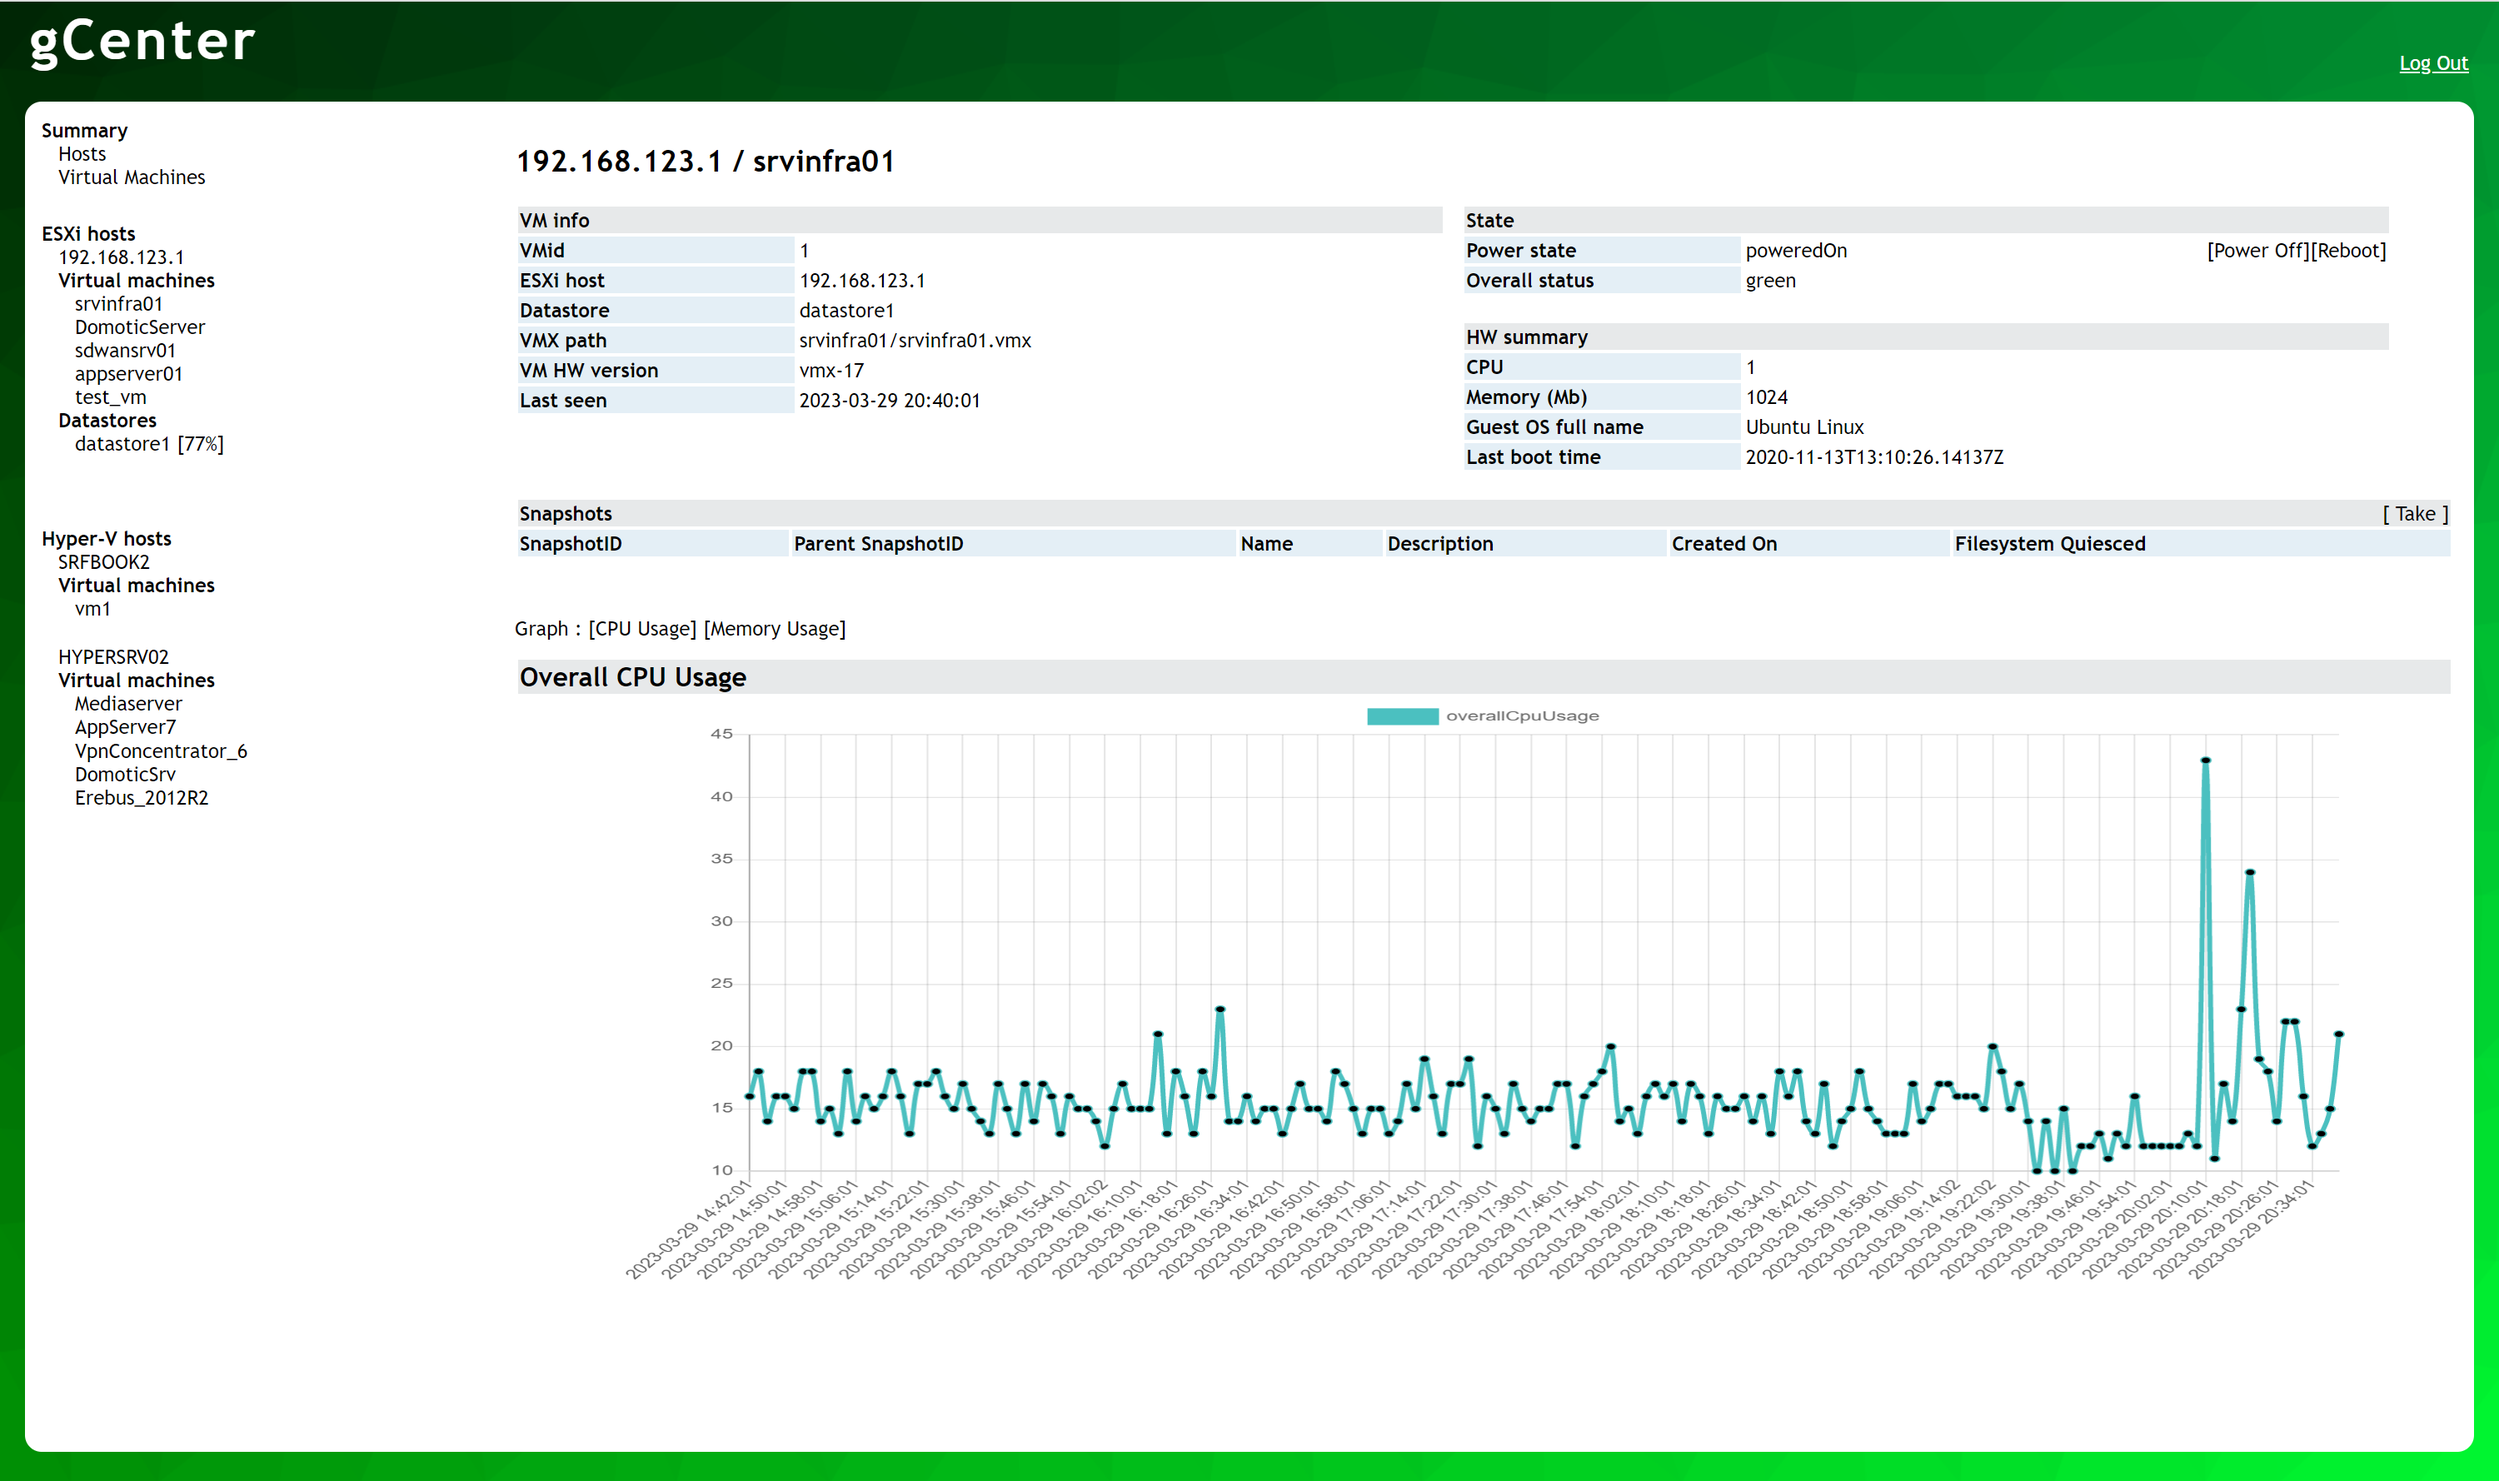
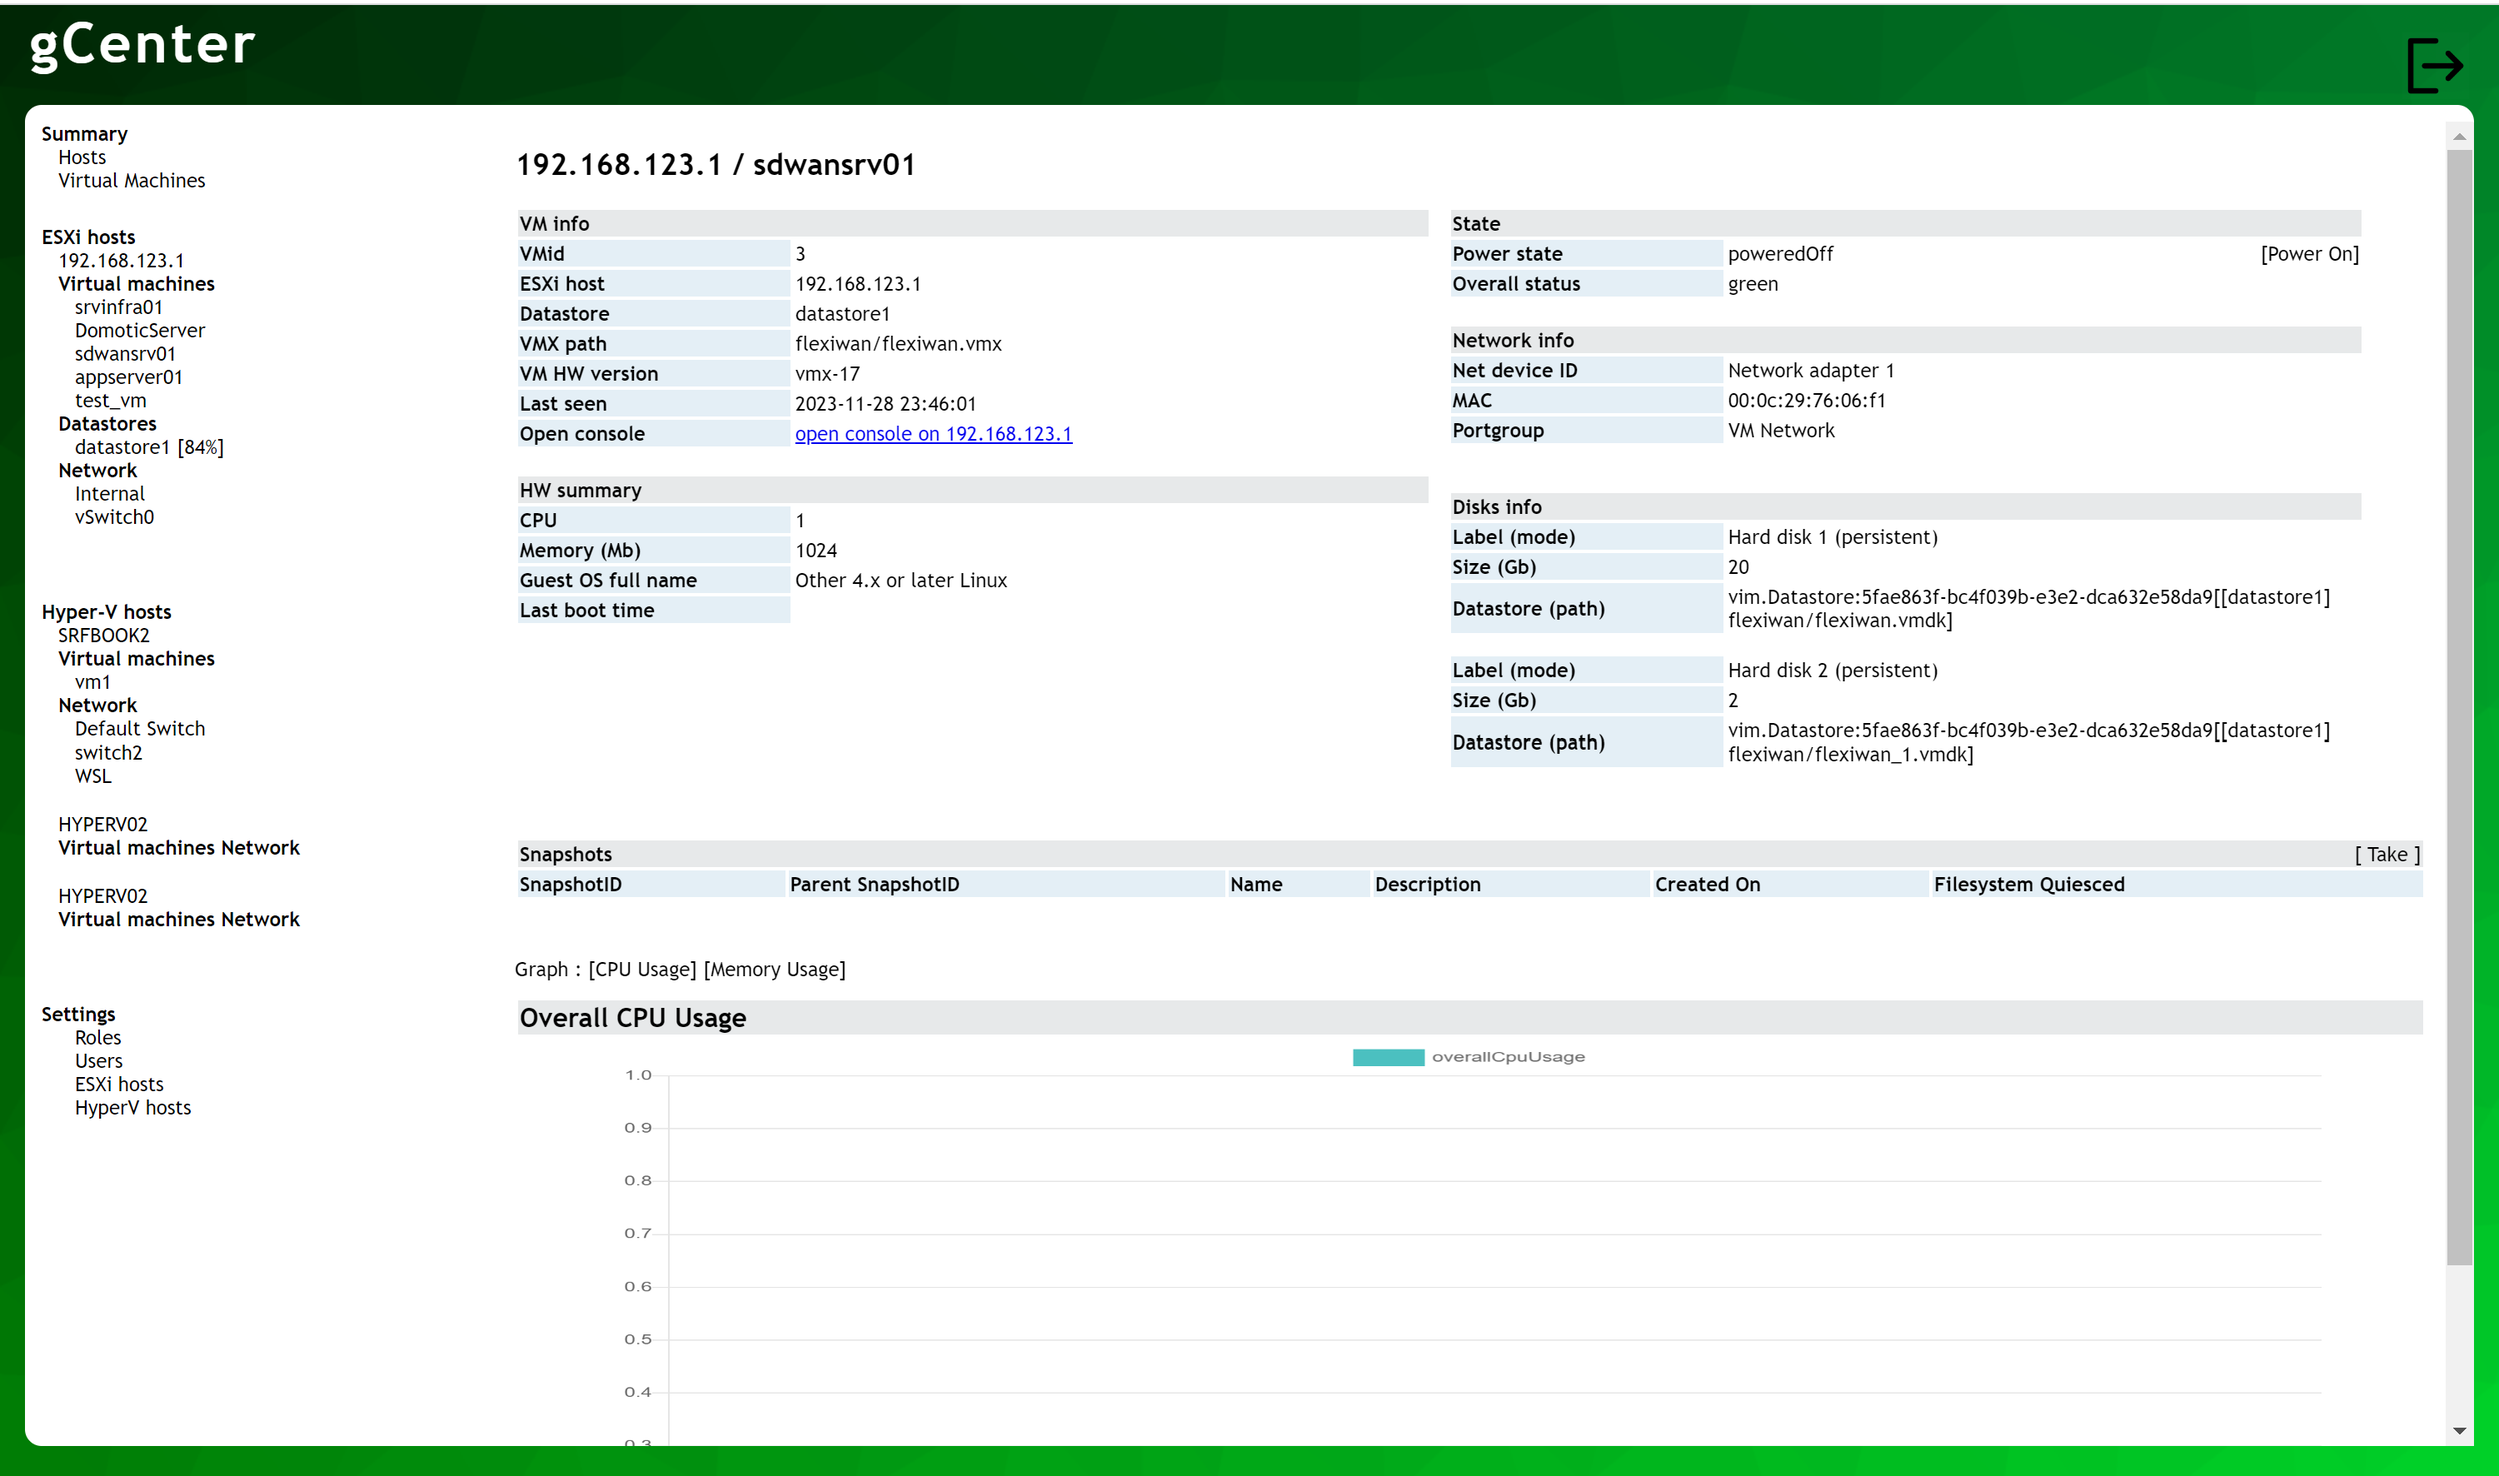
Fix jsonificator for typed-nodes and added esxi disk gathering and display

diff --git a/gatherer/gather.php b/gatherer/gather.php
@@ -281,7 +281,7 @@ function getNetwork( $db_con, $date, $time, $host, $user, $passwd, $private_key)
       $sql="insert into vswitch_informations (timestamp,date, time, hostname, vswitch_name, portgroup_name, active_clients, vlan_id ) values ('$date $time', '$date','$time', '$host', '$vswitch_name', '$portgroup_name','$active_client','$vlan_id'); ";
 
        if ($db_con->query($sql) === TRUE) {
-         echo "INFO : vswitch/portgroup '$vswitch_name'/'$porgroup_name' on '$host' inserted.\n";
+         echo "INFO : vswitch/portgroup '$vswitch_name'/'$portgroup_name' on '$host' inserted.\n";
        } else {
          echo "ERROR :  " . $sql . "\n" . $db_con->error."\n";
        }
@@ -394,7 +394,7 @@ function getDatastoreContent(  $db_con, $date, $time, $host, $user, $passwd, $pr
 
     $sql_ds_content="insert into ds_content (timestamp,date,time,hostname, datastore, content_ls) values ('$ds_ts', '$ds_date','$ds_time','$host','$ds_name', '".mysqli_real_escape_string($db_con, implode("\n",$output))."'  ) ; ";
     if ($db_con->query($sql_ds_content) === TRUE) {
-      echo "INFO : datastore content for datastore '$name' on '$host' inserted.\n";
+      echo "INFO : datastore content for datastore '$ds_name' on '$host' inserted.\n";
     } else {
       echo "ERROR : insert datastore :  " . $sql_ds_content . "\n" . $db_con->error."\n";
     }
@@ -407,7 +407,7 @@ function getDatastoreContent(  $db_con, $date, $time, $host, $user, $passwd, $pr
 
 function getVmDevices(  $db_con, $date, $time, $host, $user, $passwd, $private_key, $vm_id) {
   $debug=true;
-
+  echo "INFO : getting VM Devices for vm=$vm_id on host=$host\n";
   $output=null;
   $retval=null;
   $command="vim-cmd vmsvc/device.getdevices $vm_id | sed 's/= (.*)/:/g' ";
@@ -426,29 +426,60 @@ function getVmDevices(  $db_con, $date, $time, $host, $user, $passwd, $private_k
   if ( json_last_error()===JSON_ERROR_NONE ) {
 
       if ($debug){
-        echo "DEBUG : found config\n";
-        echo "  ".$vmconfig_output."\n";
+        echo "DEBUG : jsonified config\n";
+	echo "  ".$vmconfig_output."\n";
       }
 
       foreach($vmconfig_json->device as $device) {
-        echo "INFO : device ".$device->deviceInfo->label."\n";
+        
+        echo "INFO : found device ".$device->deviceInfo->label."\n";
 	// is network interface
 	if (isset($device->macAddress)){
 	  $backing_portgroup=$device->backing->deviceName;
+	  $netdevice_id=$device->deviceInfo->label;
           $mac_address=$device->macAddress;
 	  echo "INFO : device type = network interface '".$mac_address."' connected to '".$backing_portgroup."' \n";
 
-          $sql_vm_net="insert into vm_network_devices (timestamp,date,time,hostname,vmid,netdevice_id ,macaddress , backing_portgroup) values ('$date $time','$date','$time', '$host' ,'$vm_id', '','$mac_address','$backing_portgroup'   ) ; ";
+          $sql_vm_net="insert into vm_network_devices (timestamp,date,time,hostname,vmid,netdevice_id ,macaddress , backing_portgroup) values ('$date $time','$date','$time', '$host' ,'$vm_id', '$netdevice_id','$mac_address','$backing_portgroup'   ) ; ";
           if ($db_con->query($sql_vm_net) === TRUE) {
             echo "INFO : vm net device for vm  '$vm_id' on '$host' inserted.\n";
           } else {
             echo "ERROR insert vm_network_devices :  " . $sql_vm_net . "\n" . $db_con->error."\n";
           }
 	  
-	}	
+	}else if ( $device->gcenter_type === "vim.vm.device.VirtualDisk" )
+	{
+	  // is a disk
+	  $label=$device->deviceInfo->label;
+	  $backing_ds=$device->backing->datastore;
+	  $backing_file=$device->backing->fileName;
+	  $backing_uuid=$device->backing->uuid;
+	  $backing_mode=$device->backing->diskMode;
+	  $capacity_byte=$device->capacityInBytes;
+	  
+	  echo "INFO : found disk\n";
+	  echo "       label = $label\n";
+	  echo "       ds = $backing_ds\n";
+	  echo "       file = $backing_file\n";
+	  echo "       uuid = $backing_uuid\n";
+	  echo "       mode = $backing_mode\n";
+	  echo "       byte = $capacity_byte\n";
+
+          $sql_vm_disk="insert into vm_disk_devices ( timestamp, date, time, hostname, vmid, label, datastore_id, filepath, uuid, mode, size_bytes) values ('$date $time','$date','$time', '$host' ,'$vm_id', '$label','$backing_ds','$backing_file','$backing_uuid','$backing_mode','$capacity_byte'   ) ; ";
+          if ($db_con->query($sql_vm_disk) === TRUE) {
+            echo "INFO : vm disk '$label' device for vm  '$vm_id' on '$host' inserted.\n";
+          } else {
+            echo "ERROR insert vm_disk_devices :  " . $sql_vm_disk . "\n" . $db_con->error."\n";
+	  }
+
+	}
 
       }
       
+  }else{
+    echo "ERROR :unable to parse JSONified command output (below)";
+    var_dump($output);
+    echo "\n";
   }
 }
 

diff --git a/website/manage_get_esxi_vm_informations.php b/website/manage_get_esxi_vm_informations.php
@@ -67,6 +67,13 @@ if (  isset($_GET["hostname"]) && isset($_GET["vmid"]) && "get_vm_info"==$_GET["
        <tr><th>Open console</th><td><a href="https://<?php print $host ?>/ui/#/console/<?php print $vmid ?>" target="_blank">open console on <?php print $host ?></a></td></tr>
       </table>
       <br/>
+      <table class="tbl_vm_info">
+        <tr><td class="tbl_info_header" colspan="2">HW summary</td></tr>
+        <tr><th>CPU</th><td><?php print $cfg_numCpu ?></td></tr>
+        <tr><th>Memory (Mb)</th><td><?php print $cfg_memoryMb ?></td></tr>
+        <tr><th>Guest OS full name</th><td><?php print $guest_guestfullname ?></td></tr>
+        <tr><th>Last boot time</th><td><?php print $runtime_lastboottime ?></td></tr>
+      </table>
     </span>
 
     <span class="spn_50">
@@ -94,37 +101,52 @@ if (  isset($_GET["hostname"]) && isset($_GET["vmid"]) && "get_vm_info"==$_GET["
       </table>
       <br/>
       <table class="tbl_vm_info">
-        <tr><td class="tbl_info_header" colspan="2">HW summary</td></tr>
-        <tr><th>CPU</th><td><?php print $cfg_numCpu ?></td></tr>
-        <tr><th>Memory (Mb)</th><td><?php print $cfg_memoryMb ?></td></tr>
-        <tr><th>Guest OS full name</th><td><?php print $guest_guestfullname ?></td></tr>
-        <tr><th>Last boot time</th><td><?php print $runtime_lastboottime ?></td></tr>
-      </table>
-    </span>
+       <tr><td class="tbl_info_header" colspan="2">Network info</td></tr>
 
-    <span class="spn_50">
-      <table class="tbl_vm_info">
-       <tr><td class="tbl_info_header" colspan="2">Network interfaces</td></tr>
-       <tr><th>macAddress</th><th>Portgroup</th></tr>
 <?php
       $sql_net_devices="select * from vm_network_devices where timestamp='".mysqli_real_escape_string($con,$timestamp)."' and vmid='".mysqli_real_escape_string($con,$vmid)."' and hostname='".mysqli_real_escape_string($con,$host)."' order by backing_portgroup; ";
 
       $result_net=mysqli_query($con,$sql_net_devices);
       while ($row = $result_net->fetch_assoc()) {
         $macaddress=$row["macaddress"];
+        $netdevice_id=$row["netdevice_id"];
         $backing_portgroup=$row["backing_portgroup"];
 
+
 ?>
-       <tr>
-         <td><?php print $macaddress; ?></td>
-         <td><?php print $backing_portgroup; ?></td>
-       </tr>
+         <tr><th>Net device ID</th><td><?php print $netdevice_id ?></td></tr>
+         <tr><th>MAC</th><td><?php print $macaddress ?></td></tr>
+         <tr><th>Portgroup</th><td><?php print $backing_portgroup; ?></td>
+         <tr height="10px"></tr>
 <?php } ?>
 
       </table>
-      <br/>
-    </span>
+      <br />
 
+      <table class="tbl_vm_info">
+       <tr><td class="tbl_info_header" colspan="2">Disks info</td></tr>
+
+<?php
+      $sql_disk_devices="select * from vm_disk_devices where timestamp='".mysqli_real_escape_string($con,$timestamp)."' and vmid='".mysqli_real_escape_string($con,$vmid)."' and hostname='".mysqli_real_escape_string($con,$host)."' order by label; ";
+
+      $result_disks=mysqli_query($con,$sql_disk_devices);
+      while ($row = $result_disks->fetch_assoc()) {
+        $label=$row["label"]." (".$row["mode"].")";
+        $size_byte=$row["size_bytes"];
+        $backing_datastore=$row["datastore_id"];
+        $filepath=$row["filepath"];
+
+
+?>
+         <tr><th>Label (mode)</th><td><?php print $label ?></td></tr>
+         <tr><th>Size (Gb)</th><td><?php print $size_byte/1024/1024/1024 ?></td></tr>
+         <tr><th>Datastore (path)</th><td><?php print $backing_datastore."[".$filepath."]"; ?></td>
+         <tr height="10px"></tr>
+<?php } ?>
+
+      </table>
+      <br />
+    </span>
 
 
     <br/>

diff --git a/common/jsonify.php b/common/jsonify.php
@@ -1,12 +1,48 @@
 <?php
 
 function jsonify($a_output){
-#$a_output = explode("\n",$cmd_output);
+
+$custom_tag_type="gcenter_type";	
+# first scan all the lines to split lines as
+#      (my.type.of.node) {
+# adding a special key_value 'gcenter_type' : 'my.type.of.node'
+$b_output=array();
+foreach($a_output as $line){
+
+  if (trim(strlen($line))>0){
+    if (preg_match('@(\\(.*?\\)) *({)@',$line) ){
+     // match the case we need to split the lines adding the custom tag
+     $new_line=preg_replace('@(\\(.*?\\)) *({)@', '${2} '.$custom_tag_type.' = "${1}",', $line);
+#     echo "PRELINE : $line\r\n";
+#     echo "NEWLINE : $new_line\r\n";
+
+     $gcenter_type_line=substr($new_line,strpos($new_line,$custom_tag_type));
+     $gcenter_type_line=str_replace("(","",$gcenter_type_line);
+     $gcenter_type_line=str_replace(")","",$gcenter_type_line);
+
+     $gcenter_type_line_pre=substr($new_line,0, strpos($new_line,$custom_tag_type));
+     echo "INFO : pre_line = $gcenter_type_line_pre\r\n";
+     echo "INFO : line = $gcenter_type_line\r\n";
+
+     $b_output[count($b_output)] = $gcenter_type_line_pre;
+     $b_output[count($b_output)] = $gcenter_type_line;
+
+    }else{
+      $b_output[count($b_output)] = $line;
+    }
+  }
+}
+
+
 
 $j_output="";
-foreach ($a_output as $line) {
+$line_num=0;
+foreach ($b_output as $line) {
+  $line_num++;
+
   if (trim(strlen($line))>0){
      $n_line=preg_replace("@\(.*?\)@", "", $line);
+
      $n2_line=preg_replace("/=/", ":", $n_line);
      $n3_line=preg_replace("/ +/", " ", $n2_line);
      $n4_line=preg_replace("/^ +/", "", $n3_line);

diff --git a/README.md b/README.md
@@ -120,6 +120,7 @@ Vmware ESXI
   - list datastore content (filesystem tree)
   - list vswitch/portgroup informations
   - list network interfaces and porgroup assignation
+  - list vm disks
 
 Micrososft Hyper-V 
   - hyperv-wmi-http-adapter-service windows service to interface WMI
@@ -133,6 +134,7 @@ Micrososft Hyper-V
   - check vm cpu and memory statistics/graphs
 
 # Main steps
+2023-11-28 Feature : added esxi vm disk gatering and listing on web interface<br/>
 2023-10-23 Feature : added hyper-v host creation/deletion from web interface<br/>
 2023-10-22 Feature : update Hyper-V wmi agent to version 1.0.7 with vm network port and vswitch informations (require updating .exe file on all Hyper-V hosts)<br/>
 2023-10-16 Feature : added virtualswitch listing on Hyper-V wmi agent (require updating .exe file on all Hyper-V hosts)<br/>
